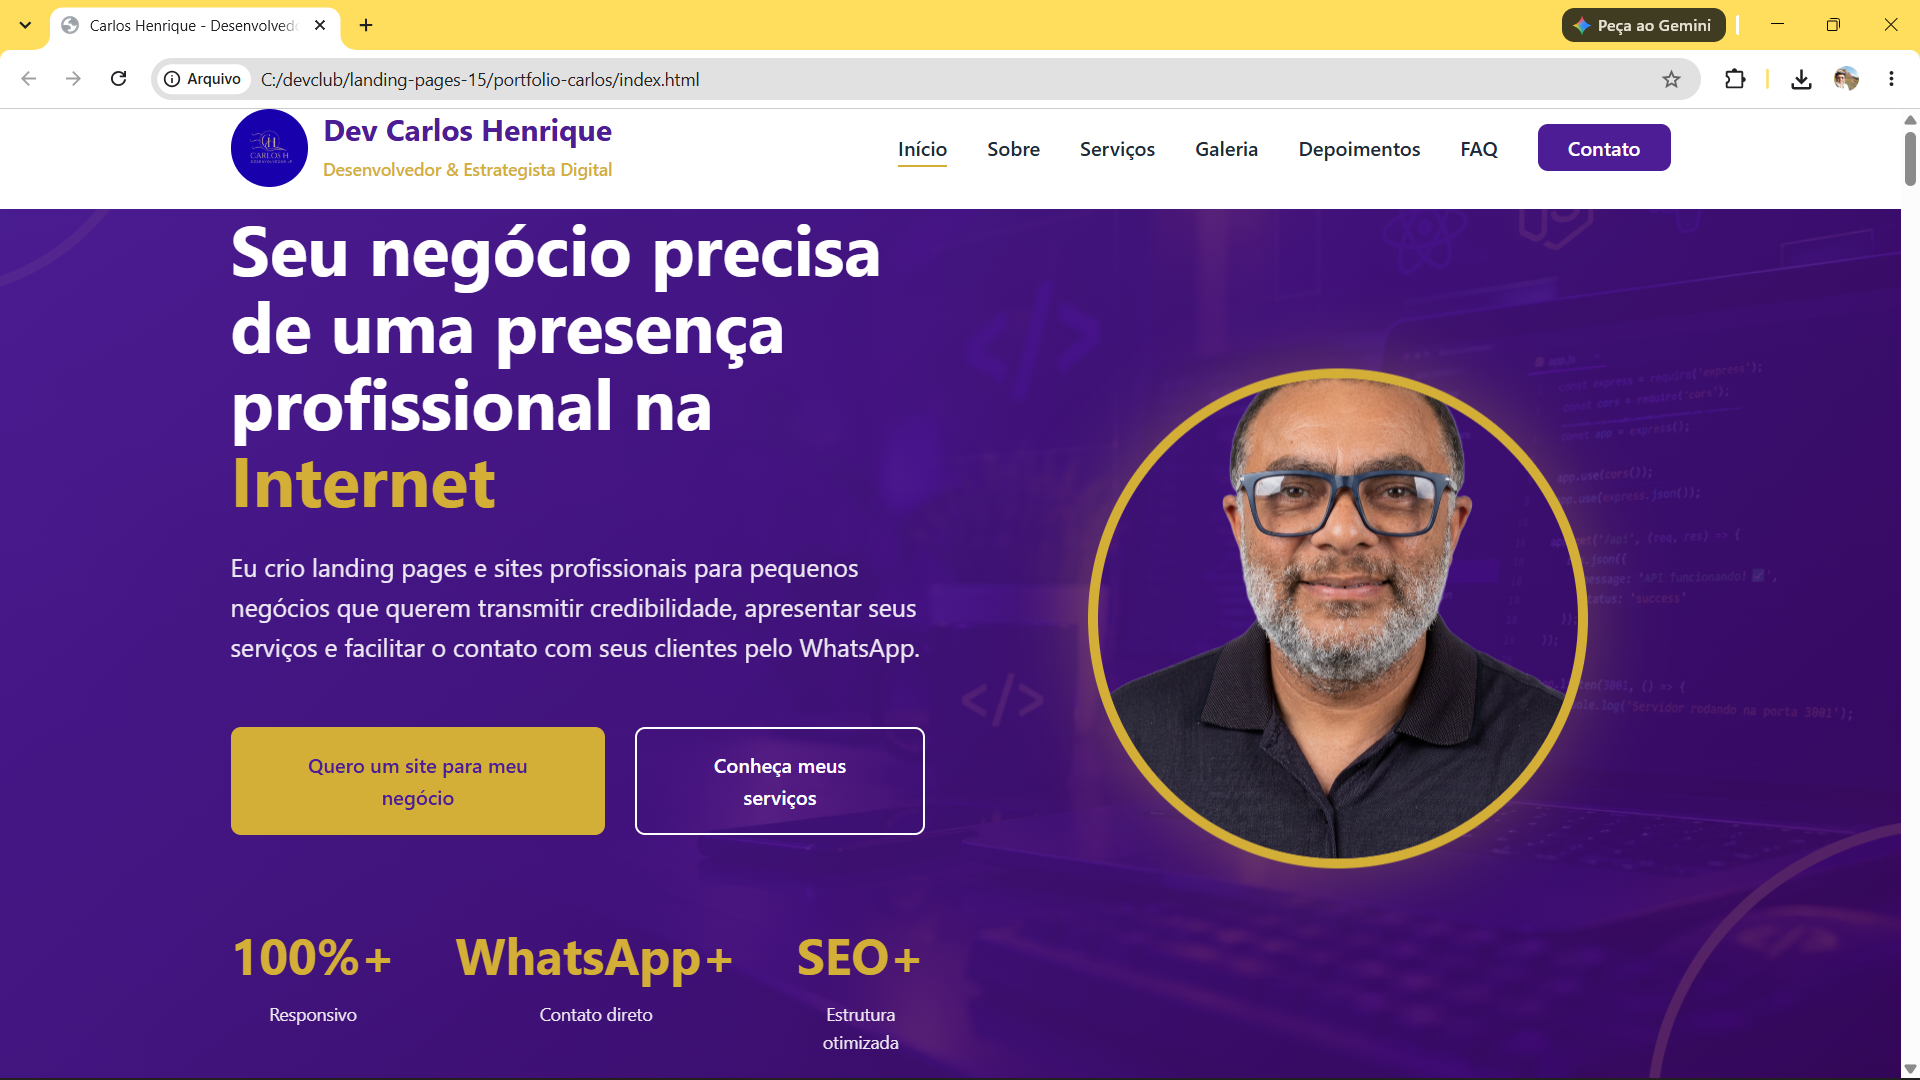
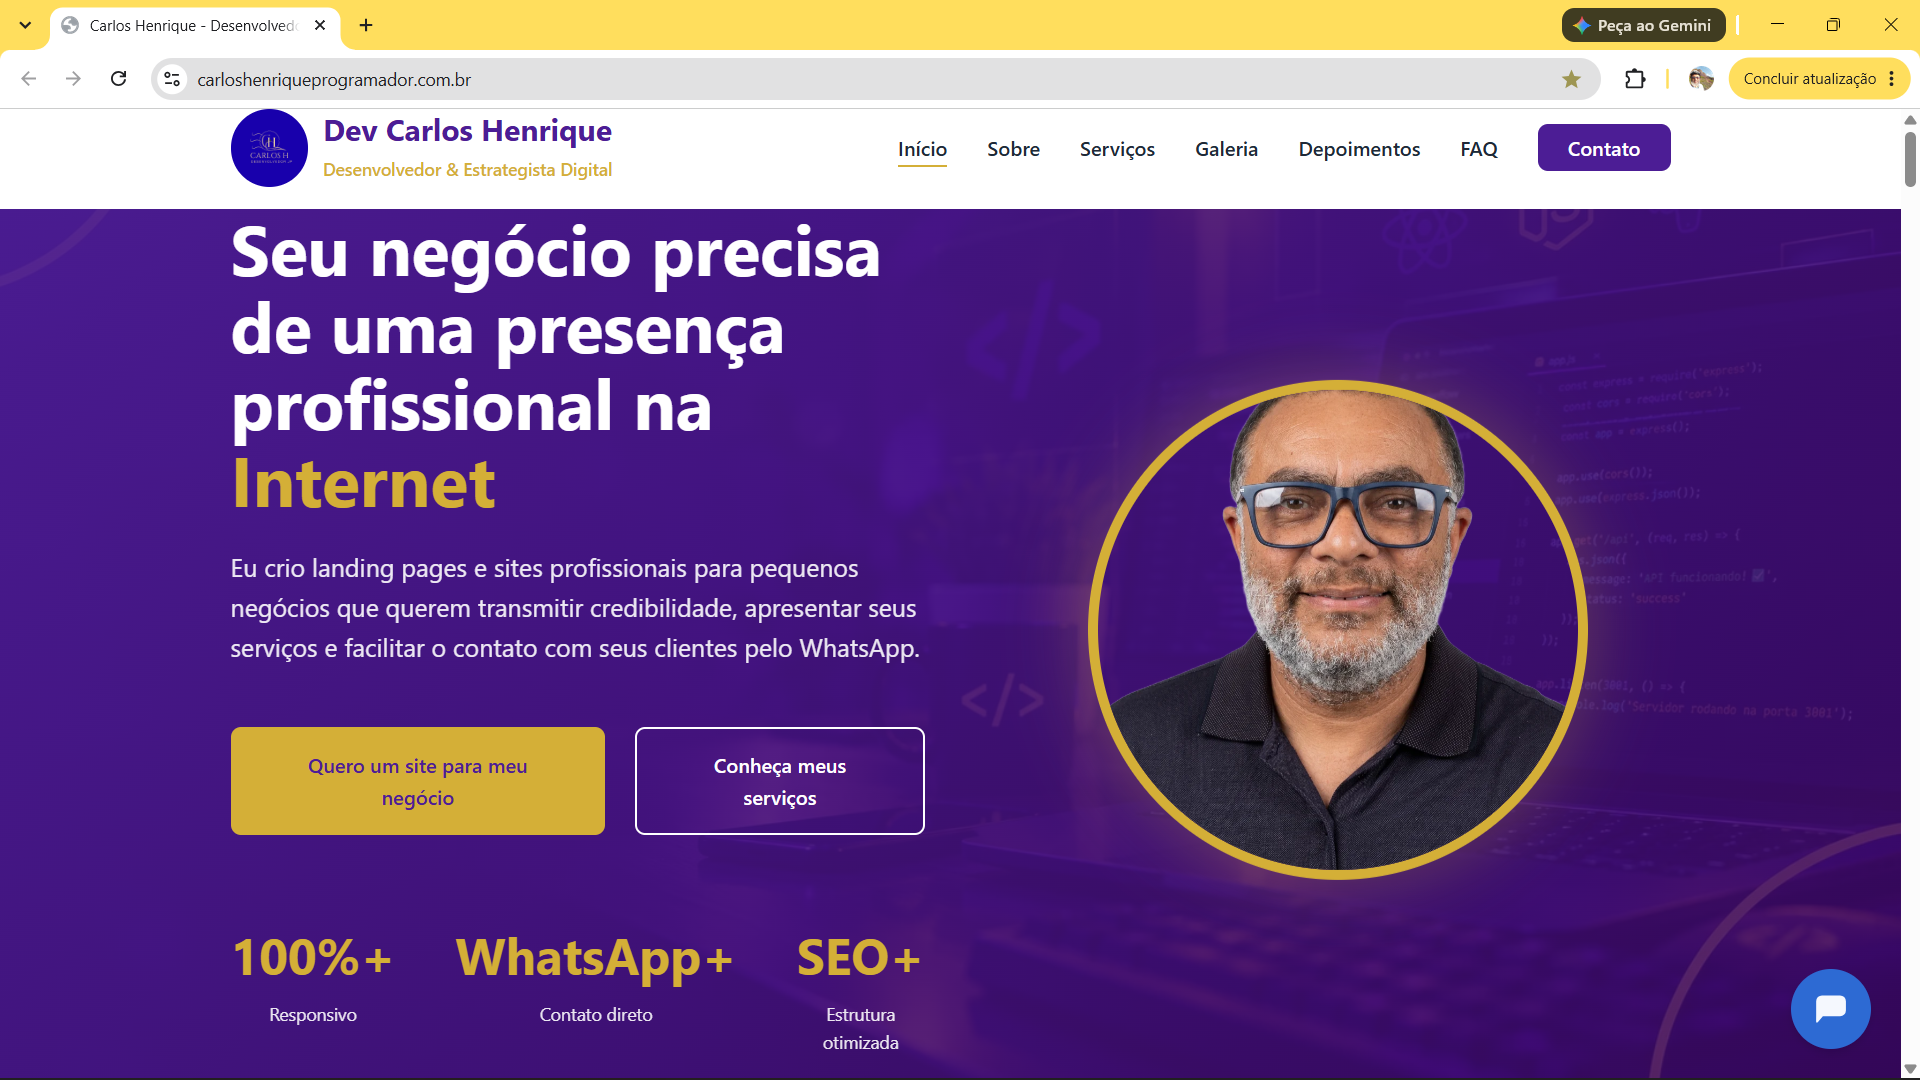
melhorando  index, styles e imagens

diff --git a/index.html b/index.html
@@ -271,18 +271,19 @@
 
                 <!-- Projeto 1 - OrderFlow -->
                 <div class="gallery-item gallery-item-large">
-                    <img src="./img/orderflow.png"
-                        alt="OrderFlow - Sistema de pedidos">
+                    <img src="./img/orderflow.png" alt="OrderFlow - Sistema de pedidos">
 
                     <div class="gallery-overlay">
                         <h3>OrderFlow</h3>
                         <p>Sistema web Full Stack para gerenciamento de pedidos</p>
 
                         <div class="project-links">
-                            <a href="https://github.com/carloshenrique2026/orderflow-web" target="_blank" rel="noopener noreferrer">
+                            <a href="https://github.com/carloshenrique2026/orderflow-web" target="_blank"
+                                rel="noopener noreferrer">
                                 🌐 Front-end
                             </a>
-                            <a href="https://github.com/carloshenrique2026/orderflow-api" target="_blank" rel="noopener noreferrer">
+                            <a href="https://github.com/carloshenrique2026/orderflow-api" target="_blank"
+                                rel="noopener noreferrer">
                                 💻 Back-end
                             </a>
                         </div>
@@ -291,8 +292,7 @@
 
                 <!-- Projeto 2 - Cosméticos -->
                 <div class="gallery-item">
-                    <img src="./img/imgcosme.png"
-                        alt="Site Cosméticos & Perfumes JP">
+                    <img src="./img/imgcosme.png" alt="Site Cosméticos & Perfumes JP">
 
                     <div class="gallery-overlay">
                         <h3>Cosméticos & Perfumes JP</h3>
@@ -302,7 +302,8 @@
                             <a href="https://cosmeticoseperfumesjp.com.br" target="_blank" rel="noopener noreferrer">
                                 🌐 Ver site
                             </a>
-                            <a href="https://github.com/carloshenrique2026/cosmeticoseperfumesjp" target="_blank" rel="noopener noreferrer">
+                            <a href="https://github.com/carloshenrique2026/cosmeticoseperfumesjp" target="_blank"
+                                rel="noopener noreferrer">
                                 💻 GitHub
                             </a>
                         </div>
@@ -311,8 +312,7 @@
 
                 <!-- Projeto 3 - Genito Jeronimo -->
                 <div class="gallery-item">
-                    <img src="./img/imggenit.png"
-                        alt="Site Genito Jeronimo Corretor de Imóveis">
+                    <img src="./img/imggenit.png" alt="Site Genito Jeronimo Corretor de Imóveis">
 
                     <div class="gallery-overlay">
                         <h3>Genito Jeronimo</h3>
@@ -322,7 +322,8 @@
                             <a href="https://corretorgenitojeronimo.com.br/" target="_blank" rel="noopener noreferrer">
                                 🌐 Ver site
                             </a>
-                            <a href="https://github.com/carloshenrique2026/genito-jeronimo" target="_blank" rel="noopener noreferrer">
+                            <a href="https://github.com/carloshenrique2026/genito-jeronimo" target="_blank"
+                                rel="noopener noreferrer">
                                 💻 GitHub
                             </a>
                         </div>
@@ -331,8 +332,7 @@
 
                 <!-- Projeto 4 - Carlos Henrique Corretor -->
                 <div class="gallery-item">
-                    <img src="./img/imgcorr.png"
-                        alt="Site Carlos Henrique Corretor de Imóveis">
+                    <img src="./img/imgcorr.png" alt="Site Carlos Henrique Corretor de Imóveis">
 
                     <div class="gallery-overlay">
                         <h3>Carlos Henrique Corretor</h3>
@@ -342,7 +342,8 @@
                             <a href="https://carloshenriquecorretor.com.br/" target="_blank" rel="noopener noreferrer">
                                 🌐 Ver site
                             </a>
-                            <a href="https://github.com/carloshenrique2026/sitecorretor" target="_blank" rel="noopener noreferrer">
+                            <a href="https://github.com/carloshenrique2026/sitecorretor" target="_blank"
+                                rel="noopener noreferrer">
                                 💻 GitHub
                             </a>
                         </div>
@@ -351,18 +352,19 @@
 
                 <!-- Projeto 5 - Portfólio -->
                 <div class="gallery-item">
-                    <img src="./img/imgdev.png"
-                        alt="Portfólio profissional Carlos Henrique">
+                    <img src="./img/imgdev.png" alt="Portfólio profissional Carlos Henrique">
 
                     <div class="gallery-overlay">
                         <h3>Portfólio Profissional</h3>
                         <p>Site institucional para desenvolvedor web</p>
 
                         <div class="project-links">
-                            <a href="https://carloshenriqueprogramador.com.br/" target="_blank" rel="noopener noreferrer">
+                            <a href="https://carloshenriqueprogramador.com.br/" target="_blank"
+                                rel="noopener noreferrer">
                                 🌐 Ver site
                             </a>
-                            <a href="https://github.com/carloshenrique2026/portfolio-carlos" target="_blank" rel="noopener noreferrer">
+                            <a href="https://github.com/carloshenrique2026/portfolio-carlos" target="_blank"
+                                rel="noopener noreferrer">
                                 💻 GitHub
                             </a>
                         </div>
@@ -397,22 +399,40 @@
                 <!-- Serviço 1 -->
                 <div class="service-card">
                     <div class="service-image">
-                        <img src="https://images.unsplash.com/photo-1556742049-0cfed4f6a45d?w=400&q=80"
-                            alt="Landing Page profissional">
+                        <img src="img/land-page.png" alt="Landing Page profissional">
                     </div>
 
                     <div class="service-content">
                         <div class="service-icon">
                             <i class="fas fa-rocket"></i>
                         </div>
+                        <h3 class="service-title">
+                            <a href="https://corretorcarlos13610.lovable.app/" target="_blank" rel="noopener noreferrer"
+                                class="service-demo-link">Visualizar a landing page</a>
+                        </h3>
 
                         <h3 class="service-title">
                             Landing Page
                         </h3>
 
                         <p class="service-description">
-                            Uma página profissional criada para apresentar seu produto,
-                            serviço ou negócio e transformar visitantes em contatos.
+                            Páginas estratégicas criadas para divulgar produtos, serviços ou ofertas específicas, atrair
+                            potenciais clientes e transformar visitantes em contatos e oportunidades de negócio.
+
+                            Design moderno e responsivo: experiência adaptada a celulares, tablets e computadores.
+
+                            WhatsApp integrado: facilite o contato e a solicitação de orçamentos.
+
+                            Estrutura focada em conversão: conteúdo organizado para incentivar o visitante a realizar
+                            uma ação.
+
+                            Chamadas para ação estratégicas: botões para solicitar informações, agendar atendimentos ou
+                            pedir um orçamento.
+
+                            Formulário de contato: opção para captar interessados, quando necessário.
+
+                            Ideal para campanhas de divulgação, lançamentos, serviços profissionais e ofertas
+                            comerciais.
                         </p>
 
                         <ul class="service-features">
@@ -426,8 +446,7 @@
                 <!-- Serviço 2 -->
                 <div class="service-card">
                     <div class="service-image">
-                        <img src="https://images.unsplash.com/photo-1460925895917-afdab827c52f?w=400&q=80"
-                            alt="Site institucional">
+                        <img src="img/imgdev.png" alt="Site institucional">
                     </div>
 
                     <div class="service-content">
@@ -436,12 +455,33 @@
                         </div>
 
                         <h3 class="service-title">
+                            <a href="https://carloshenriqueprogramador.com.br/" target="_blank"
+                                rel="noopener noreferrer" class="service-demo-link">Visualizar o Site</a>
+                        </h3>
+
+                        <h3 class="service-title">
                             Site Institucional
                         </h3>
 
                         <p class="service-description">
-                            Um site completo para apresentar sua empresa, seus serviços,
-                            produtos, localização e formas de contato.
+                            Um site profissional para apresentar sua empresa, fortalecer sua marca na Internet e
+                            transmitir confiança aos seus clientes. Reúna em um só lugar as principais informações sobre
+                            seu negócio, seus serviços e seus canais de atendimento.
+
+                            Até 5 páginas: por exemplo, Início, Sobre a Empresa, Serviços, Portfólio e Contato.
+
+                            Design moderno e responsivo: navegação adaptada a celulares, tablets e computadores.
+
+                            WhatsApp integrado: facilite o atendimento e os pedidos de orçamento.
+
+                            Google Maps: ajude seus clientes a encontrar sua localização, quando aplicável.
+
+                            Integração com redes sociais: conecte seu site aos seus canais digitais.
+
+                            Formulário de contato: receba solicitações e mensagens de potenciais clientes.
+
+                            Ideal para empresas e profissionais que precisam de uma apresentação institucional completa
+                            e profissional.
                         </p>
 
                         <ul class="service-features">
@@ -455,7 +495,7 @@
                 <!-- Serviço 3 -->
                 <div class="service-card">
                     <div class="service-image">
-                        <img src="https://images.unsplash.com/photo-1558655146-d09347e92766?w=400&q=80"
+                        <img src="img/imagcos.png"
                             alt="Site para pequenos negócios">
                     </div>
 
@@ -465,12 +505,36 @@
                         </div>
 
                         <h3 class="service-title">
-                            Site para Pequenos Negócios
+                            <a href="https://cosmeticoseperfumesjp.com.br/" target="_blank" rel="noopener noreferrer"
+                                class="service-demo-link">Visualizar o Site</a>
+                        </h3>
+
+                        <h3 class="service-title">
+                            Site Institucional para Pequenos Negócios
                         </h3>
 
                         <p class="service-description">
-                            Presença digital profissional para lojas, salões, restaurantes,
-                            profissionais autônomos e empresas locais.
+                            Sua empresa merece uma presença profissional na Internet. Tenha um site moderno para
+                            apresentar seus serviços, divulgar seus principais diferenciais e facilitar o contato com
+                            novos clientes, sem precisar de uma estrutura complexa.
+
+                            Apresentação do negócio: informações essenciais sobre a empresa, seus serviços e
+                            diferenciais.
+
+                            WhatsApp em destaque: facilite pedidos de orçamento, agendamentos e dúvidas.
+
+                            Design personalizado: identidade visual adaptada ao segmento e ao perfil do seu público.
+
+                            Layout responsivo: navegação adequada para celulares, tablets e computadores.
+
+                            Informações essenciais: endereço, horário de funcionamento e redes sociais, quando
+                            aplicável.
+
+                            Estrutura objetiva: conteúdo organizado para que o cliente encontre rapidamente o que
+                            procura.
+
+                            Ideal para lojas, salões de beleza, restaurantes, profissionais autônomos e empresas locais
+                            que desejam começar ou fortalecer sua presença digital.
                         </p>
 
                         <ul class="service-features">
@@ -1319,7 +1383,8 @@
                     </p>
                     <ul>
                         <li><i class="fas fa-check" aria-hidden="true"></i> Atendimento inicial a qualquer hora</li>
-                        <li><i class="fas fa-check" aria-hidden="true"></i> Respostas configuradas para o seu negócio</li>
+                        <li><i class="fas fa-check" aria-hidden="true"></i> Respostas configuradas para o seu negócio
+                        </li>
                         <li><i class="fas fa-check" aria-hidden="true"></i> Mais um caminho para gerar contatos</li>
                     </ul>
                     <a href="https://wa.me/5583996245391?text=Ol%C3%A1%21%20Tenho%20interesse%20em%20adicionar%20um%20chatbot%20ao%20meu%20site."
@@ -1460,20 +1525,22 @@
 
                         <div class="social-links">
 
-                            <a href="https://www.linkedin.com/in/carlos-henrique2026/" target="_blank"
+                            <a href="https://www.linkedin.com/in/carloshenrique2026/" target="_blank"
                                 class="social-link" aria-label="LinkedIn">
 
                                 <i class="fab fa-linkedin-in"></i>
 
                             </a>
 
-                            <a href="#" class="social-link" aria-label="Instagram">
+                            <a href="https://www.instagram.com/carloshenrique13610/" target="_blank" class="social-link"
+                                aria-label="Instagram">
 
                                 <i class="fab fa-instagram"></i>
 
                             </a>
 
-                            <a href="#" class="social-link" aria-label="Facebook">
+                            <a href="https://www.facebook.com/carloshenrique13610/" target="_blank" class="social-link"
+                                aria-label="Facebook">
 
                                 <i class="fab fa-facebook-f"></i>
 
@@ -1517,20 +1584,22 @@
 
                     <div class="footer-social">
 
-                        <a href="https://www.linkedin.com/in/carlos-henrique2026/" target="_blank"
+                        <a href="https://www.linkedin.com/in/carloshenrique2026/" target="_blank"
                             class="footer-social-link" aria-label="LinkedIn">
 
                             <i class="fab fa-linkedin-in"></i>
 
                         </a>
 
-                        <a href="#" class="footer-social-link" aria-label="Instagram">
+                        <a href="https://www.instagram.com/carloshenrique13610/" target="_blank"
+                            class="footer-social-link" aria-label="Instagram">
 
                             <i class="fab fa-instagram"></i>
 
                         </a>
 
-                        <a href="#" class="footer-social-link" aria-label="Facebook">
+                        <a href="https://www.facebook.com/carloshenrique13610/" target="_blank"
+                            class="footer-social-link" aria-label="Facebook">
 
                             <i class="fab fa-facebook-f"></i>
 

diff --git a/style.css b/style.css
@@ -825,9 +825,17 @@ section {
     margin-bottom: var(--spacing-sm);
 }
 
+.service-demo-link,
+.service-demo-link:hover {
+    color: var(--accent-color);
+    text-decoration: underline;
+    text-underline-offset: 0.2em;
+}
+
 .service-description {
-    color: var(--text-secondary);
-    margin-bottom: var(--spacing-md);
+    margin: 0 var(--spacing-sm) var(--spacing-md);
+    color: var(--text-primary);
+    text-align: justify;
 }
 
 .service-features {
